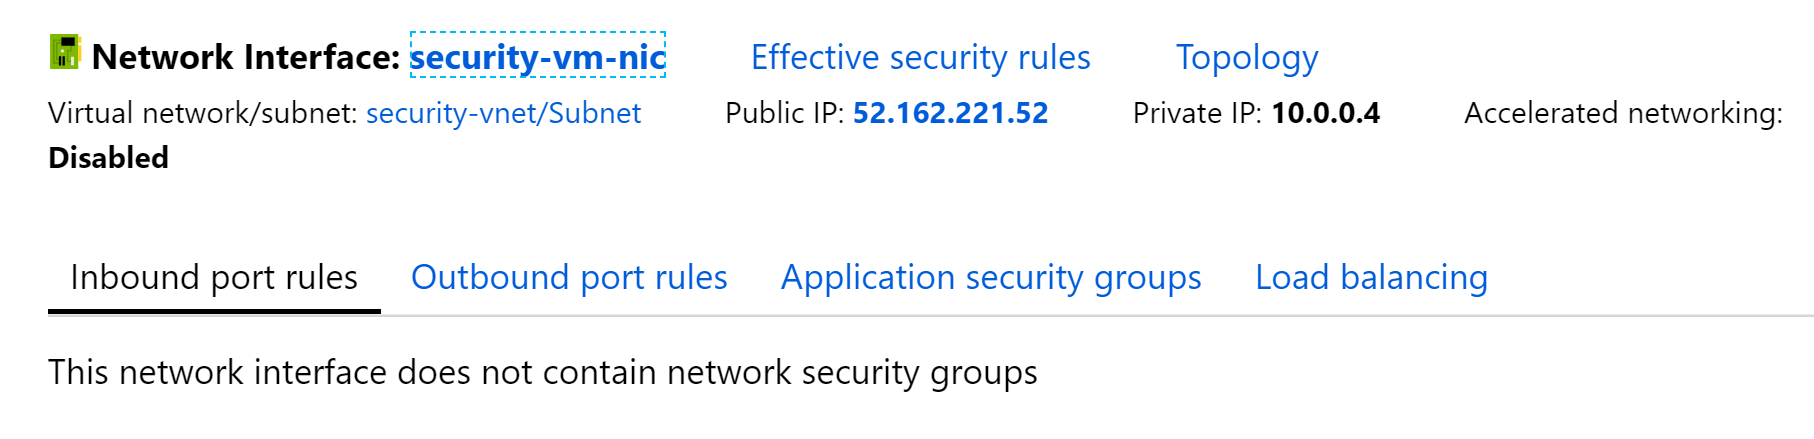
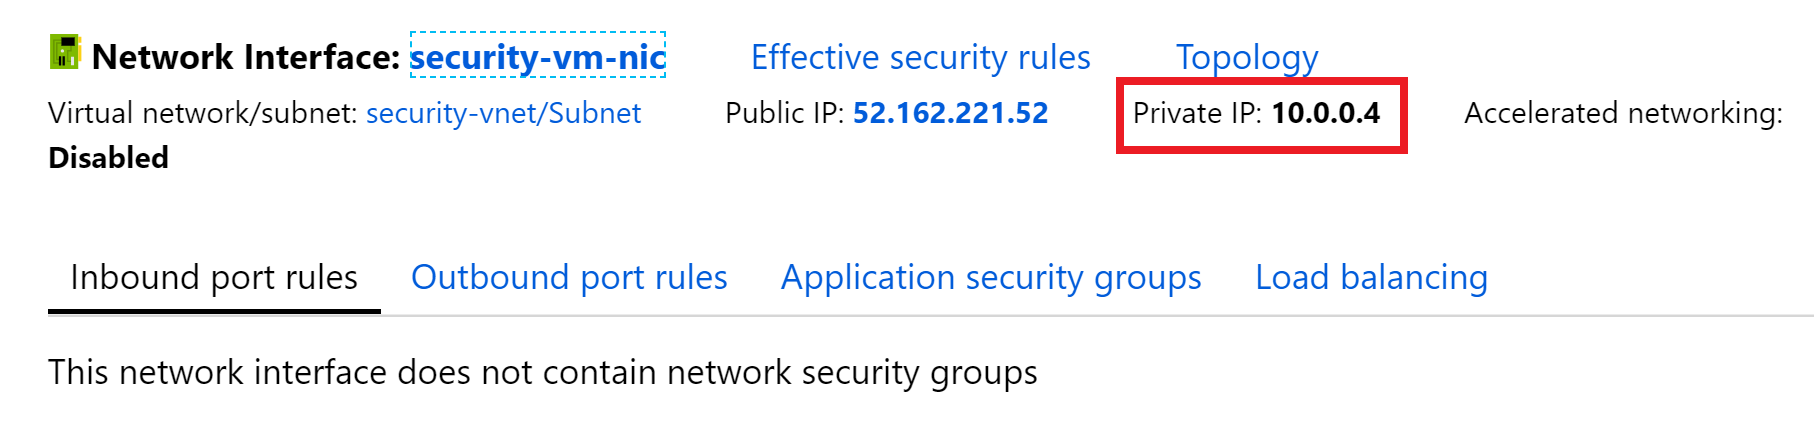
Exercise working cleanup

Changed region(s): [[0.6174, 0.1777, 0.8026, 0.3554]]

diff --git a/08-network-security.md b/08-network-security.md
@@ -4,35 +4,36 @@ In this exercise we will secure the Azure Web App created in exercise #4 at the 
 
 ## Create a service endpoint to Azure SQL
 
-1. Edit the azuredeploy.parameters.json file in the /security-web-apps/ and replace the "[unique string here]" in the parameter values with a unique value to avoid naming conflicts.
-
 1. Deploy the ARM template that will set up a VNet with one private subnet and a VM in it we can use for testing.
 
-```powershell
-# If your $uniqueString and/or $resourceGroupName variables are not set, set them  here
-# $uniqueString = "$(Get-Random 99999)"
-# $resourceGroupName = "azure-training-rg"
-cd $home/azuretraining
-az group deployment create --resource-group "$resourceGroupName" --template-file ./security-web-apps/azuredeploy.json --parameters '@./security-web-apps/azuredeploy.parameters.json' --parameters "{'uniqueString': { 'value': '$uniqueString' }}" --verbose
-```
+    ```powershell
+    $resourceGroupName = "$env:username-lunch-webapp-rg"
 
-2. Once the deployment is complete open up the [Azure Portal](https://portal.azure.com) and navigate to the Virtual Network resource "security-vnet"
+    az group deployment create `
+        --resource-group "$resourceGroupName" `
+        --template-file ./security-web-apps/azuredeploy.json `
+        --parameters '@./security-web-apps/azuredeploy.parameters.json' `
+        --parameters "{'uniqueString': { 'value': '$env:username' }}" `
+        --verbose
+    ```
 
-3. Select the "Service endpoints" menu option
+2. Once the deployment is complete open up the [Azure Portal](https://portal.azure.com) and navigate to the Virtual Network resource **"security-vnet"**
+
+3. Select the **"Service endpoints"** menu option
 
     ![Service endpoints](images/vnet-service-endpoint-menu.png)
 
-5. Click "Add"
+5. Click **"Add"**
 
-6. Select the "Microsoft.Sql" service and the "service-sn" subnet from the drop downs.
+6. Select the **"Microsoft.Sql"** service and the **"service-sn"** subnet from the drop downs.
 
-This will switch outgoing traffic from your private subnet to this Azure service to use your private address space, allowing you to lock down the Azure service to specific resources inside your private virtual network address space. 
+    This will switch outgoing traffic from your private subnet to this Azure service to use your private address space, allowing you to lock down the Azure service to specific resources inside your private virtual network address space. 
 
-3. Go back to your resource group and open the VM resource "security-vm".
+3. Go back to your resource group and open the VM resource **"security-vm"**.
 
-4. Select the Settings --> Networking menu option on the left
+4. Select the **Settings --> Networking** menu option on the left
 
-5. Take note of the "Private IP" address.  Because you created a service endpoint for Azure SQL on this VNet requests to Azure SQL will stay within the Azure network and connect from the private IP address instead of traversing the internet and appearing as the public IP address.  This means that giving this VM a publicly addressable IP is not necessary.  However, we will keep the public address around so we can RDP into the machine to test our configuration.
+5. Take note of the **"Private IP"** address.  Because you created a service endpoint for Azure SQL on this VNet, requests to Azure SQL will stay within the Azure network and connect from the private IP address instead of traversing the internet and appearing as the public IP address.  This means that giving this VM a publicly addressable IP is not necessary.  However, we will keep the public address around so we can RDP into the machine to test our configuration.
 
     ![VM Networking](images/vm-networking.png)
 
@@ -40,15 +41,13 @@ This will switch outgoing traffic from your private subnet to this Azure service
 
 6. Navigate back to the resource group with your Azure SQL Server and select that resource (make sure to select the "SQL server" resource type, not the "SQL database").
 
-7. Select the Security --> Firewalls and virtual networks menu option on the left
+7. Select the **Security --> Firewalls and virtual networks** menu option on the left
 
     ![Azure SQL Firewalls Menu](images/azuresql-firewalls-menu.png)
 
-8. Under the Virtual Networks section click "+ Add existing virtual network"
+8. Under the Virtual Networks section click **"+ Add existing virtual network"**
 
-9. Enter a unique name for the rule and select the "security-vnet" virtual network and "security-sn" subnet from the drop downs.
-
-10. Connect to the VM using RDP.  On Properties Page --> Click Connect to Download RDP file --> Save and Open RDP file.
+9. Enter a unique name for the rule and select the **"security-vnet"** virtual network and **"security-sn"** subnet from the drop downs.
 
     > After selecting the subnet the status of the service endpoint for Azure SQL in this VNet will be displayed.  If you did not create a service endpoint earlier the portal will give you the option to create it from this menu.
 
@@ -56,13 +55,26 @@ This will switch outgoing traffic from your private subnet to this Azure service
 
 ## Test the service endpoint
 
+10. Connect to the VM using RDP.  On the **Properties Page** click **Connect** to download an RDP file. Save and open the RDP file.
+
 12. Log in with the user name "securitytraining" and password "Security1!"
 
-13. Open the Start menu and start Microsoft SQL Server Tools 17 --> SQL Server MAnagement Studio
+13. Open the Start menu and start **Microsoft SQL Server Tools 17** --> **SQL Server Management Studio**
 
-14. Enter your database URL ([your SQL server name].database.windows.net), select SQL authentication, and enter the admin user name and password for your Azure SQL Server.
+14. Enter your database connection info:
+    Server Type: Database Engine  
+    Server Name: [your CMUTUAL user name]-lunch-sql.database.windows.net  
+    Authentication: SQL Server Authentication  
+    Login: lunchadmin  
+    Password: %Lunch4U!
 
-15. You should be connected to the server and be able to execute SQL commands.  Even though access to all Azure services have been removed and no IP addresses are in the whitelist, you can connect to the server through your VM since it is in a VNet that has an Azure SQL Server Service Endpoint and is in a subnet that has been granted access to the SQL Server.
+15. You should be connected to the server and be able to execute SQL commands.  Try:
+
+    ```sql
+    SELECT * FROM menu.MenuOption
+    ```
+
+    Even though access to all Azure services have been removed and no IP addresses are in the whitelist, you can connect to the server through your VM since it is in a VNet that has an **Azure SQL Server Service Endpoint** and is in a subnet that has been granted access to the SQL Server.
 
     > Keep the RDP session open, we will be returning to it in the next section.
 

diff --git a/09-app-gateway.md b/09-app-gateway.md
@@ -2,18 +2,18 @@
 # Create an Application Gateway
 
 Our lunch API App Service has a SQL injection issue.  Load the API endpoint with the URL
-**https://lunch-[unique value]-api-as.azurewebsites.net/api/menu?filter=Soda**
+**https://[Your CMUTUAL user name]-lunch-api-as.azurewebsites.net/api/menu?filter=Soda**
 in your browser.  It will return only menu items with the text "Soda" in them.
 
 > If you get a **Client with IP address XXX.XXX.XXX.XXX error you have to go back to your SQL server firewall settings and enable traffic from Azure services.
 
 However, the developers didn't properly parameterize the SQL WHERE clause, so it is vulnerable to injection attacks.  Enter the URL:
 
-**https://lunch-[unique value]-api-as.azurewebsites.net/api/menu?filter=%'; UPDATE menu.MenuOption SET Name=Name%2B' HACKED!'--**
+**https://[Your CMUTUAL user name]-lunch-api-as.azurewebsites.net/api/menu?filter=%'; UPDATE menu.MenuOption SET Name=Name%2B' HACKED!'--**
 
 in your browser, then load the /api/menu URL again.  You will see that the names of the products have been changed.
 
-To protect against issues like this we will put the site behind an Application Gateway with the Web Firewall feature enabled.
+To protect against coding issues like this we will put the site behind an Application Gateway with the Web Firewall feature enabled.
 
 1. Click the **Create a resource** button in the upper left menu.
 
@@ -31,7 +31,9 @@ To protect against issues like this we will put the site behind an Application G
     - Create a new virtual network for the App Gateway named **"app-gateway-vnet"**
     - Use 10.0.1.0/24 for the address space.
     - Create a subnet named **"dmz-sn"** with an address space of 10.0.1.0/29
+<!--
     > Application Gateway consumes one private IP address per instance, plus another private IP address if a private frontend IP configuration is configured. Also, Azure reserves the first four and last IP address in each subnet for internal usage. For example, if an application gateway is set to three instances and no private frontend IP, then a /29 subnet size or greater is needed. In this case, the application gateway uses three IP addresses. If you have three instances and an IP address for the private frontend IP configuration, then a /28 subnet size or greater is needed as four IP addresses are required.
+-->
     - Click **OK** to create the VNet
     - Make sure the **Web application firewall** status is **Enabled**
     - Change the **Firewall mode** to **Prevention**
@@ -74,7 +76,7 @@ To protect against issues like this we will put the site behind an Application G
 
 21. Click **Save**
 
-13. Click the **Overview** menu option for the App Gateway and get the public DNS name of the App Gateway from the **Frontend public IP address** field 
+13. Click the **Overview** menu option for the App Gateway and get the public DNS name of the App Gateway from the **Frontend public IP address** field
 
     ![Public DNS](images/app-gateway-dns.png)
 
@@ -82,6 +84,6 @@ To protect against issues like this we will put the site behind an Application G
 
     https://[App Gateway GUID].cloudapp.net/api/menu?filter=%'; UPDATE menu.MenuOption SET Name=Name%2B' HACKED!'--
 
-    You should get a 403 - Forbidden: Access is denied to the resource since the Application Gateway detected a potential SQL injection attack
+    You should get a **403 - Forbidden: Access is denied to the resource** since the Application Gateway detected a potential SQL injection attack
 
 Next: [SQL Data Security](11-sql-data-security.md)

diff --git a/07-messaging-service-bus.md b/07-messaging-service-bus.md
@@ -68,7 +68,7 @@ The customer interface website deployed to Azure App Services will publish an "O
 
     ![App Settings](images/function-app-settings.png)
 
-16. Create two new variables named "ServiceBusConnectionString" and "ServiceBusTopicName".  Paste the connection service bus string into "ServiceBusConnectionString" and the topic name "order-placed-sbt" into the "ServiceBusTopicName".  Click **Save** at the top of the form.
+16. Create two new settings named **"ServiceBusConnectionString"** and **"ServiceBusTopicName"**.  Paste the connection service bus string into **"ServiceBusConnectionString"** and the topic name **"order-placed-sbt"** into the **"ServiceBusTopicName"**.  Click **Save** at the top of the form.
 
 <!--
  the script below and run it to add a new config variables to the web app named "ServiceBusConnectionString" and "SerivceBusTopicName":
